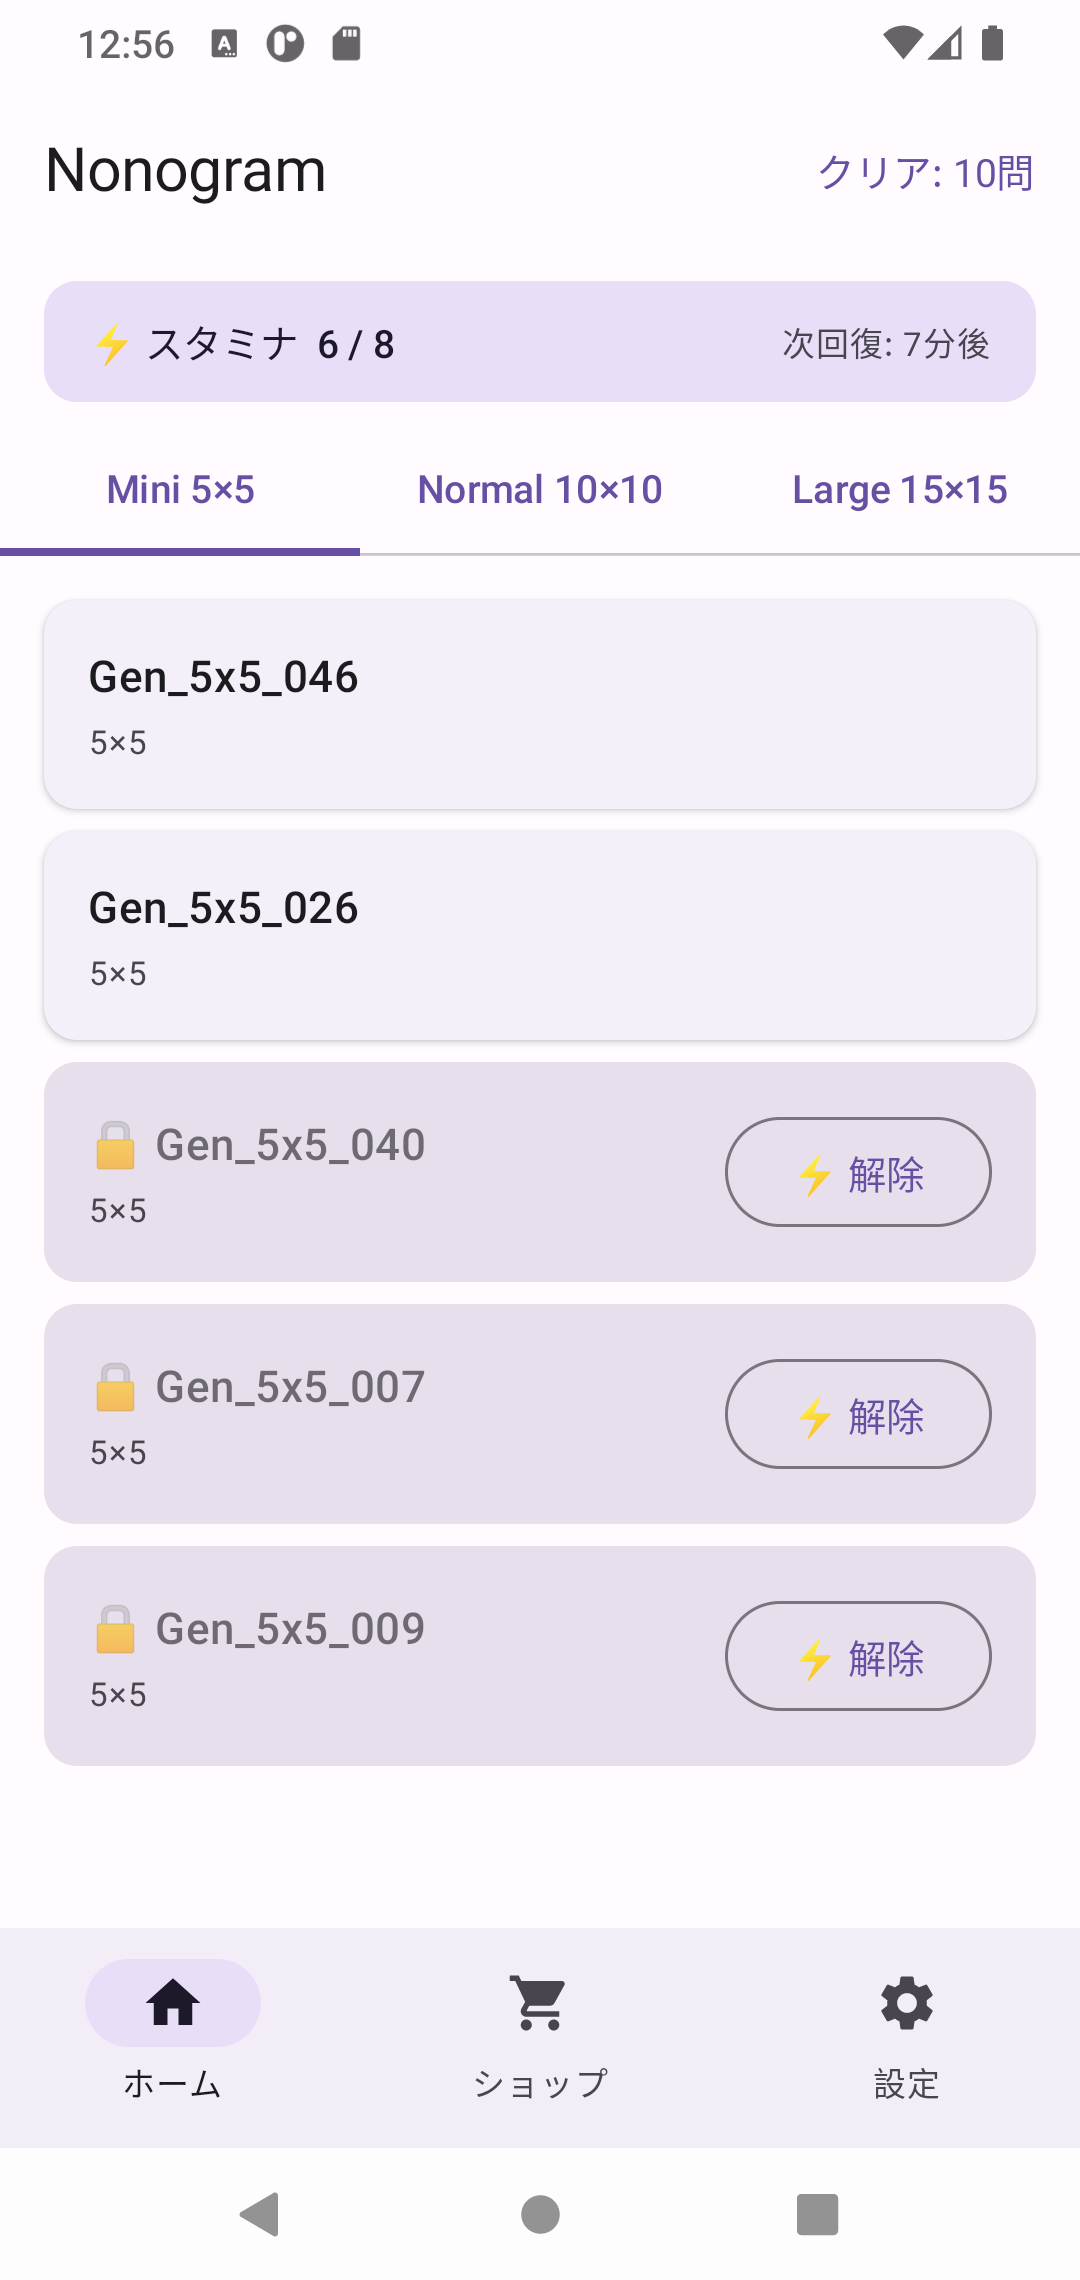
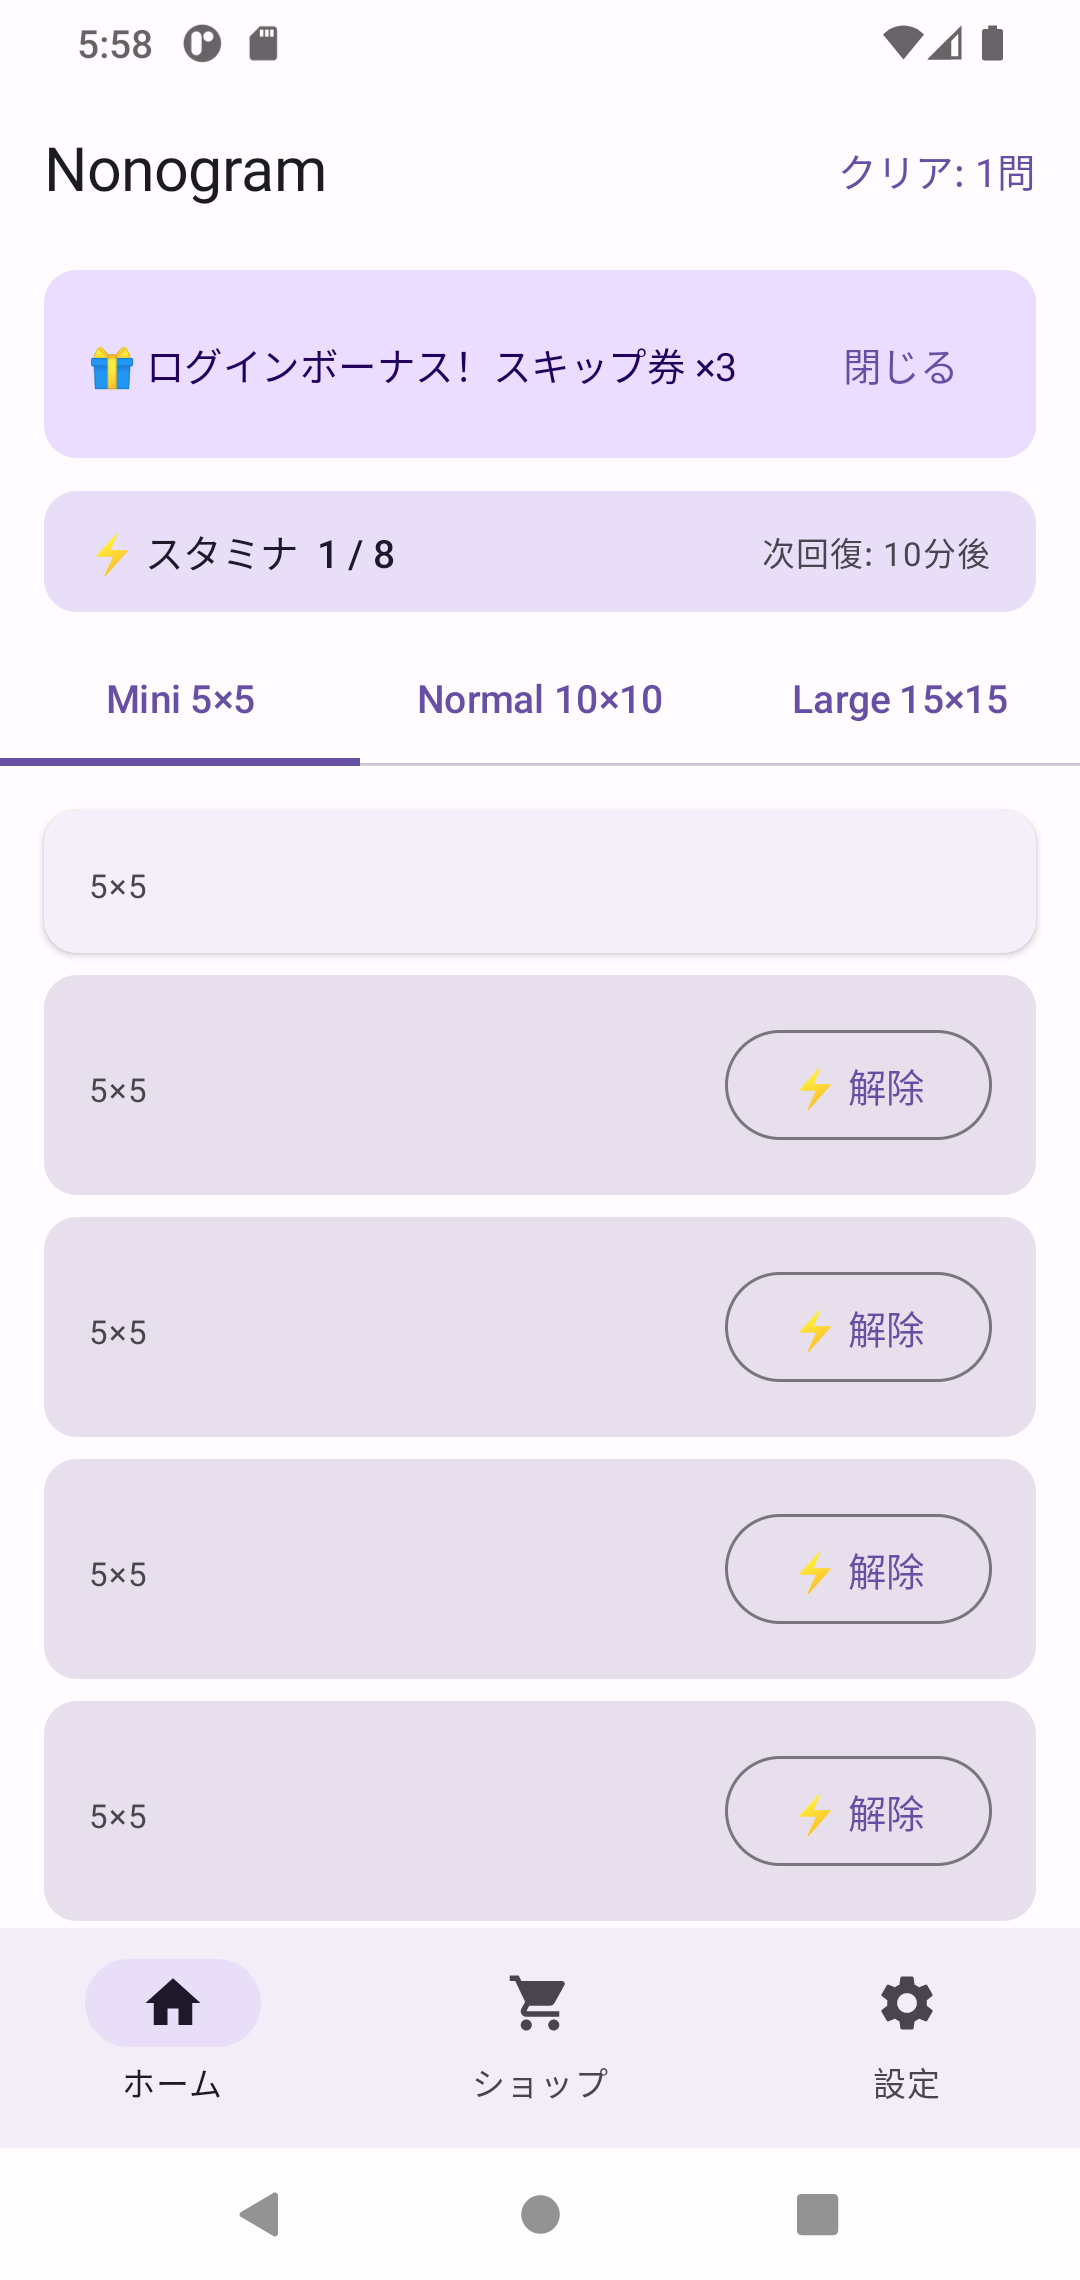
feat: update portfolio content and skills
- Add Nonogram screenshots and release URL
- Rewrite About text to highlight technical depth
- Update Skills: reorder categories, add AWS/Traefik/Ktor etc.
- Add GitHub Portfolio link to About
- Remove inProgress from project-d

diff --git a/src/components/About.jsx b/src/components/About.jsx
@@ -9,12 +9,12 @@ export default function About() {
         </h2>
 
         <p className="example">
-          本サイトは、学習の成果として制作したアプリ・Webサービスをまとめたポートフォリオです。
-          現在はWebアプリ開発を中心に、バックエンド（Django / Spring Boot）からインフラ（Docker / VPS / Nginx / PostgreSQL）まで幅広く学習し、
-          「実際に動くものを作る」ことを意識して開発に取り組んでいます。
+          バックエンド（Django・Spring Boot・Ktor）・Androidアプリ（Kotlin・Jetpack Compose・MVVM）・インフラ（Docker・VPS・Traefik・PostgreSQL）まで、設計から本番デプロイまでを一貫して手がけています。
+          JWT認証・BCryptハッシュ・サーバー時刻ベースのチート耐性設計など、運用を意識したセキュリティ設計を各プロダクトで実践してきました。
           <br />
           <br />
-          制作物では、ユーザー視点での使いやすさや、保守しやすい構成・設計を意識しながら改善を重ねています。
+          「動くコードを書く」だけでなく、なぜその技術スタックを選ぶのか・どう責務を分離するのかを意識した設計を重視しています。
+          制作物はいずれも実際に公開・配布しており、要件定義からリリースまでを一人で担当しています。
         </p>
 
         <div className="about-image">
@@ -36,7 +36,8 @@ export default function About() {
             <h3 className="card-title">関連リンク</h3>
             <h3 className="card-subtitle">Links</h3>
             <ul className="card-list">
-              <li><a href="https://github.com/sorapenguin" target="_blank" rel="noopener noreferrer">GitHub</a></li>
+              <li><a href="https://github.com/sorapenguin" target="_blank" rel="noopener noreferrer">GitHub（ホーム）</a></li>
+              <li><a href="https://github.com/sorapenguin/portfolio-public" target="_blank" rel="noopener noreferrer">GitHub（Portfolio）</a></li>
             </ul>
           </div>
         </div>

diff --git a/src/components/Skills.jsx b/src/components/Skills.jsx
@@ -1,28 +1,23 @@
 const skillCategories = [
   {
-    label: 'バックエンド',
-    accent: '#4B52A7',
-    skills: ['Python', 'Django', 'Java', 'Spring Boot', 'PHP'],
-  },
-  {
     label: 'インフラ・DevOps',
     accent: '#2e7d6e',
-    skills: ['Docker', 'Docker Compose', 'nginx', 'VPS (Linux)', "Let's Encrypt", 'PostgreSQL', 'Terraform'],
+    skills: ['Docker', 'Docker Compose', 'nginx', 'Traefik', 'VPS（Linux）', 'AWS', "Let's Encrypt", 'PostgreSQL', 'GitHub Actions'],
   },
   {
-    label: 'AWS / クラウド',
-    accent: '#E8750A',
-    skills: ['AWS'],
+    label: 'バックエンド',
+    accent: '#4B52A7',
+    skills: ['Python', 'Django', 'Java', 'Spring Boot', 'PHP', 'Kotlin / Ktor', 'Exposed ORM', 'JWT', 'BCrypt', 'HikariCP'],
+  },
+  {
+    label: 'Android',
+    accent: '#8B5CA7',
+    skills: ['Kotlin', 'Jetpack Compose', 'MVVM', 'StateFlow', 'Coroutines', 'Hilt', 'Room', 'DataStore', 'WorkManager', 'Retrofit'],
   },
   {
     label: 'フロントエンド',
     accent: '#32839C',
-    skills: ['JavaScript', 'HTML / CSS', 'React', 'Chart.js'],
-  },
-  {
-    label: 'モバイル',
-    accent: '#8B5CA7',
-    skills: ['Kotlin', 'Android Studio'],
+    skills: ['JavaScript', 'HTML / CSS', 'React', 'Vite', 'Chart.js'],
   },
 ]
 
